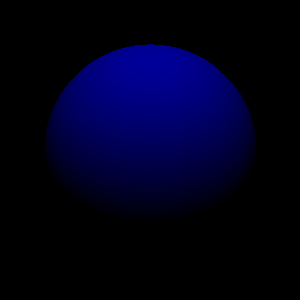
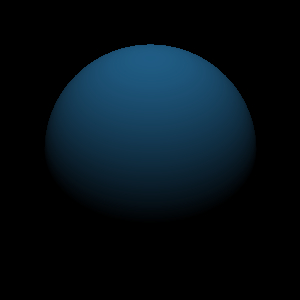
multiple spheres

Changed region(s): [[0.15, 0.15, 0.84, 0.66]]

diff --git a/index_multiple_spheres.js b/index_multiple_spheres.js
@@ -1,0 +1,186 @@
+function Sphere(v, r) {
+  return {
+    center: v, r: r
+  }
+}
+
+(async () => {
+  const Jimp = require('jimp')
+
+  const Config = require('./config')
+  const LinAlg = require('./lin_alg')
+
+  // Leva ponto x no intervalo [a, b] no intervalo [c, d]
+  function linear(a, b, c, d, x) { return (d - c) * (x - a) / (b - a) + c }
+
+  function solve_quadratic_equation(A, B, C) {
+    const Delta = B * B - 4 * A * C
+
+    if (Delta < 0) return false
+
+    if (Delta == 0) {
+      return { t: (-B) / (2 * A) }
+    }
+
+    return {
+      t1: (-B + Math.sqrt(Delta)) / (2 * A),
+      t2: (-B - Math.sqrt(Delta)) / (2 * A)
+    }
+  }
+
+  // Calcula o ponto de intersecao na superficie da esfera
+  // de um raio q sai da camera e passa por um ponto x, y, z
+  // da tela na cena
+  function ray_intersection_sphere(orig, dire, sphere) {
+    const aux = LinAlg.sub(orig, sphere.center)
+
+    // Resolver equacao (Dx^2 + Dy^2 + Dz^2)*t^2 + 2*(x0*Dx + y0*Dy = z0*Dz)*t + (x0^2 + y0^2 + z0^2 - 1) = 0
+    // onde (x0, y0, z0) eh a camera. Tomar menor raiz, pois eh a que fica mais proxima da camera
+    const A = LinAlg.dot_product(dire, dire)
+    const B = 2 * LinAlg.dot_product(dire, aux)
+    const C = LinAlg.modulo(aux) ** 2 - sphere.r ** 2
+
+    const roots = solve_quadratic_equation(A, B, C)
+
+    if (!roots) return false
+
+    // Escolher a solucao mais proxima da camera
+    let t
+    if (roots.t) {
+      t = roots.t
+    } else {
+      t = Math.min(roots.t1, roots.t2)
+    }
+
+    // orig + t * dire
+    return LinAlg.add(orig, LinAlg.mul(t, dire))
+  }
+
+  // Calcula a cor de um ponto da superficie da esfera
+  // visivel pela camera
+  function phong(p, sphere) {
+    // Por conveniencia a esfera esta centrada na origem e tem raio 1
+    // Logo, o vetor normal a superfice no ponto p eh o proprio ponto p
+    const N = LinAlg.normalize(LinAlg.sub(p, sphere.center))
+
+    // Feixe de luz
+    const L = LinAlg.normalize(LinAlg.vector(
+      Config.light_source.x - p.x,
+      Config.light_source.y - p.y,
+      Config.light_source.z - p.z
+    ))
+
+    // Direcao de visada
+    const V = LinAlg.normalize(LinAlg.vector(
+      Config.camera.x - p.x,
+      Config.camera.y - p.y,
+      Config.camera.z - p.z
+    ))
+
+    // Direcao de reflexao
+    const R = LinAlg.normalize(LinAlg.sub(LinAlg.mul(2, N), L))
+
+    const dot_N_L = LinAlg.dot_product(N, L)
+    const dot_R_V = LinAlg.dot_product(R, V)
+
+    let color = LinAlg.vector(0, 0, 0)
+
+    // Reflexao difusa
+    if (Config.phong.dif) {
+      color = LinAlg.add(color, LinAlg.vector(
+        Config.Kd.R * dot_N_L * Config.I.R,
+        Config.Kd.G * dot_N_L * Config.I.G,
+        Config.Kd.B * dot_N_L * Config.I.B,
+      ))
+    }
+
+    // Reflexao specular
+    if (Config.phong.spe) {
+      const val = dot_R_V ** Config.shininess
+      color = LinAlg.add(color, LinAlg.vector(
+        Config.Ks * val * Config.I.R,
+        Config.Ks * val * Config.I.G,
+        Config.Ks * val * Config.I.B
+      ))
+    }
+
+    // Reflexao do ambiente
+    if (Config.phong.amb) {
+      color = LinAlg.add(color, LinAlg.vector(
+        Config.I_amb.R,
+        Config.I_amb.G,
+        Config.I_amb.B,
+      ))
+    }
+
+    return {
+      R: color.x,
+      G: color.y,
+      B: color.z
+    }
+  }
+
+  function get_pixel_color(camera, ray_direction, sphere) {
+    // Calcular ponto de intersecao do raio que chega na camera com a esfera
+    const p = ray_intersection_sphere(camera, ray_direction, sphere)
+
+    // Se tiver ponto de intersecao com a esfera
+    if (!p) return false
+    
+    // Reflexao de Phong
+    const color = phong(p, sphere)
+
+    // Colocar a cor no intervalo [0, 255]
+    function convert_color(c) {
+      return Math.max(0, Math.min(255, Math.round(c)))
+    }
+
+    // Colorir o pixel
+    return Jimp.rgbaToInt(
+      convert_color(color.R),
+      convert_color(color.G),
+      convert_color(color.B),
+      255
+    )
+  }
+
+  // Carregando objetos da cena
+  const objects = []
+  const dl = [-1, 0, 1]
+  for (const dx of dl) {
+    for (const dy of dl) {
+      const _ = 0.1
+      objects.push(Sphere(LinAlg.vector(dx, dy, -2), 0.3))
+      objects.push(Sphere(LinAlg.vector(dx, dy, -1), 0.3))
+      objects.push(Sphere(LinAlg.vector(dx, dy, 0), 0.3))
+    }
+  }
+
+  // Criando imagem
+  const img = new Jimp(Config.image_resolution.W, Config.image_resolution.H, (err) => {
+    if (err) throw err
+  });
+
+  // Varrendo cada pixel da imagem final
+  for (const { x, y } of img.scanIterator(0, 0, img.bitmap.width, img.bitmap.height)) {
+    // Converter ponto da imagem para ponto na tela da cena
+    const p_screen = LinAlg.vector(
+      linear(0, img.bitmap.width, -Config.screen.W / 2, Config.screen.W / 2, x),
+      linear(0, img.bitmap.height, Config.screen.H / 2, -Config.screen.H / 2, y),
+      Config.screen.z_position
+    )
+    const ray_direction = LinAlg.sub(p_screen, Config.camera)
+
+    for (const sphere of objects) {
+      const color = get_pixel_color(Config.camera, ray_direction, sphere)
+      
+      if (!color) continue
+      
+      // Colorir o pixel
+      img.setPixelColor(color, x, y)
+    }
+  }
+
+  // Salvar imagem
+  img.write(`${Config.img_file_name}.jpg`)
+})()

diff --git a/config.js b/config.js
@@ -16,26 +16,26 @@ module.exports = {
   // Posicao da fonte de luz
   light_source: {
     x: 0,
-    y: 3,
-    z: 3
+    y: 0,
+    z: 0.5
   },
 
   // Resolucao da imagem
   image_resolution: {
-    W: 300,
-    H: 300,
+    W: 1000,
+    H: 1000,
   },
 
   // Constante de reflexao especular da esfera
-  Ks: 0.5,
+  Ks: 0.8,
   // Brilho/rugosidade do material
-  shininess: 5,
+  shininess: 50,
 
   // Constante de reflexao por difusao da esfera para os 3 canais RGB
   Kd: {
-    R: 0.122931442,
-    G: 0.359338061,
-    B: 0.517730496
+    R: 0.363849765,
+    G: 0.208920188,
+    B: 0.427230047
   },
 
   // Intensidade da fonte luminosa
@@ -47,9 +47,9 @@ module.exports = {
 
   // Intensidade luminosa do ambiente
   I_amb: {
-    R: 0,
+    R: 40,
     G: 0,
-    B: 50
+    B: 40
   },
 
   // Componentes consideradas no modelo de Phong
@@ -60,5 +60,5 @@ module.exports = {
   },
 
   // Nome do arquivo da imagem gerada
-  img_file_name: 'img/pos2'
+  img_file_name: 'img/multiple_spheres'
 }
